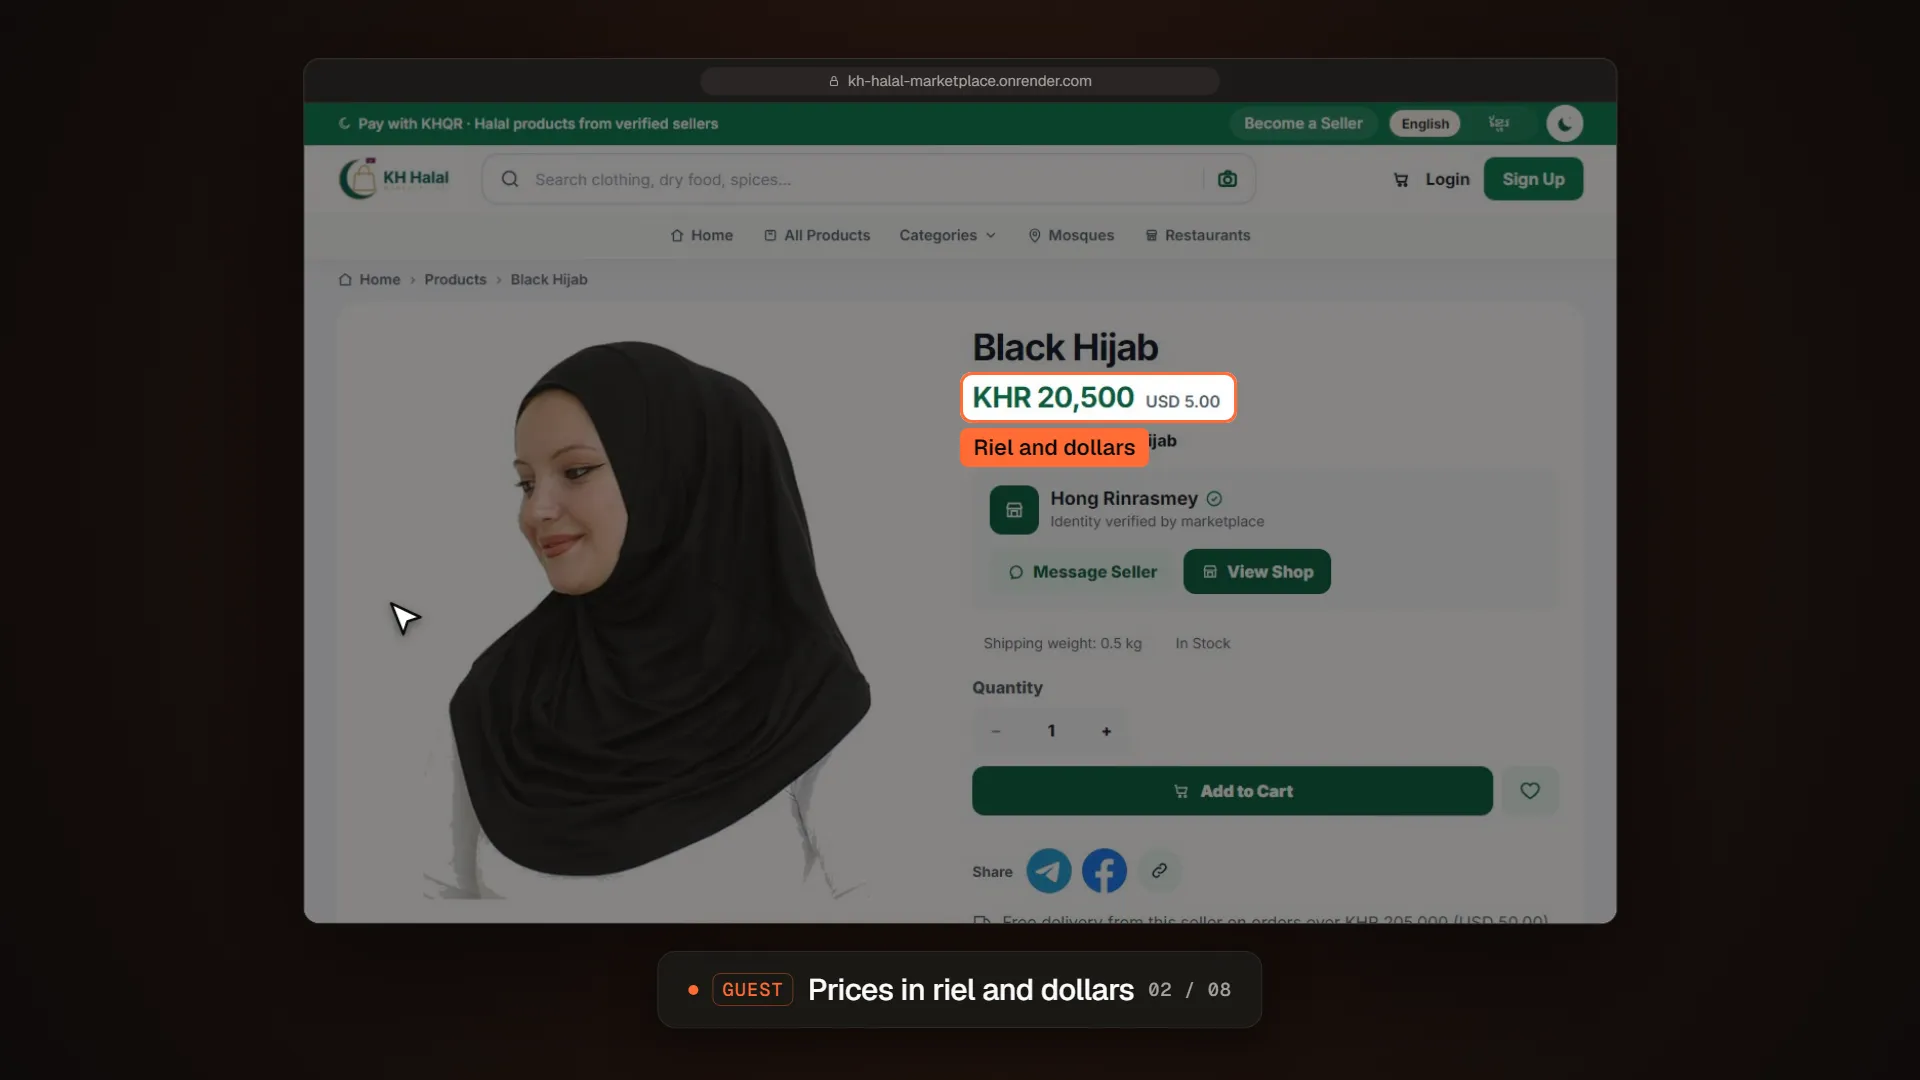
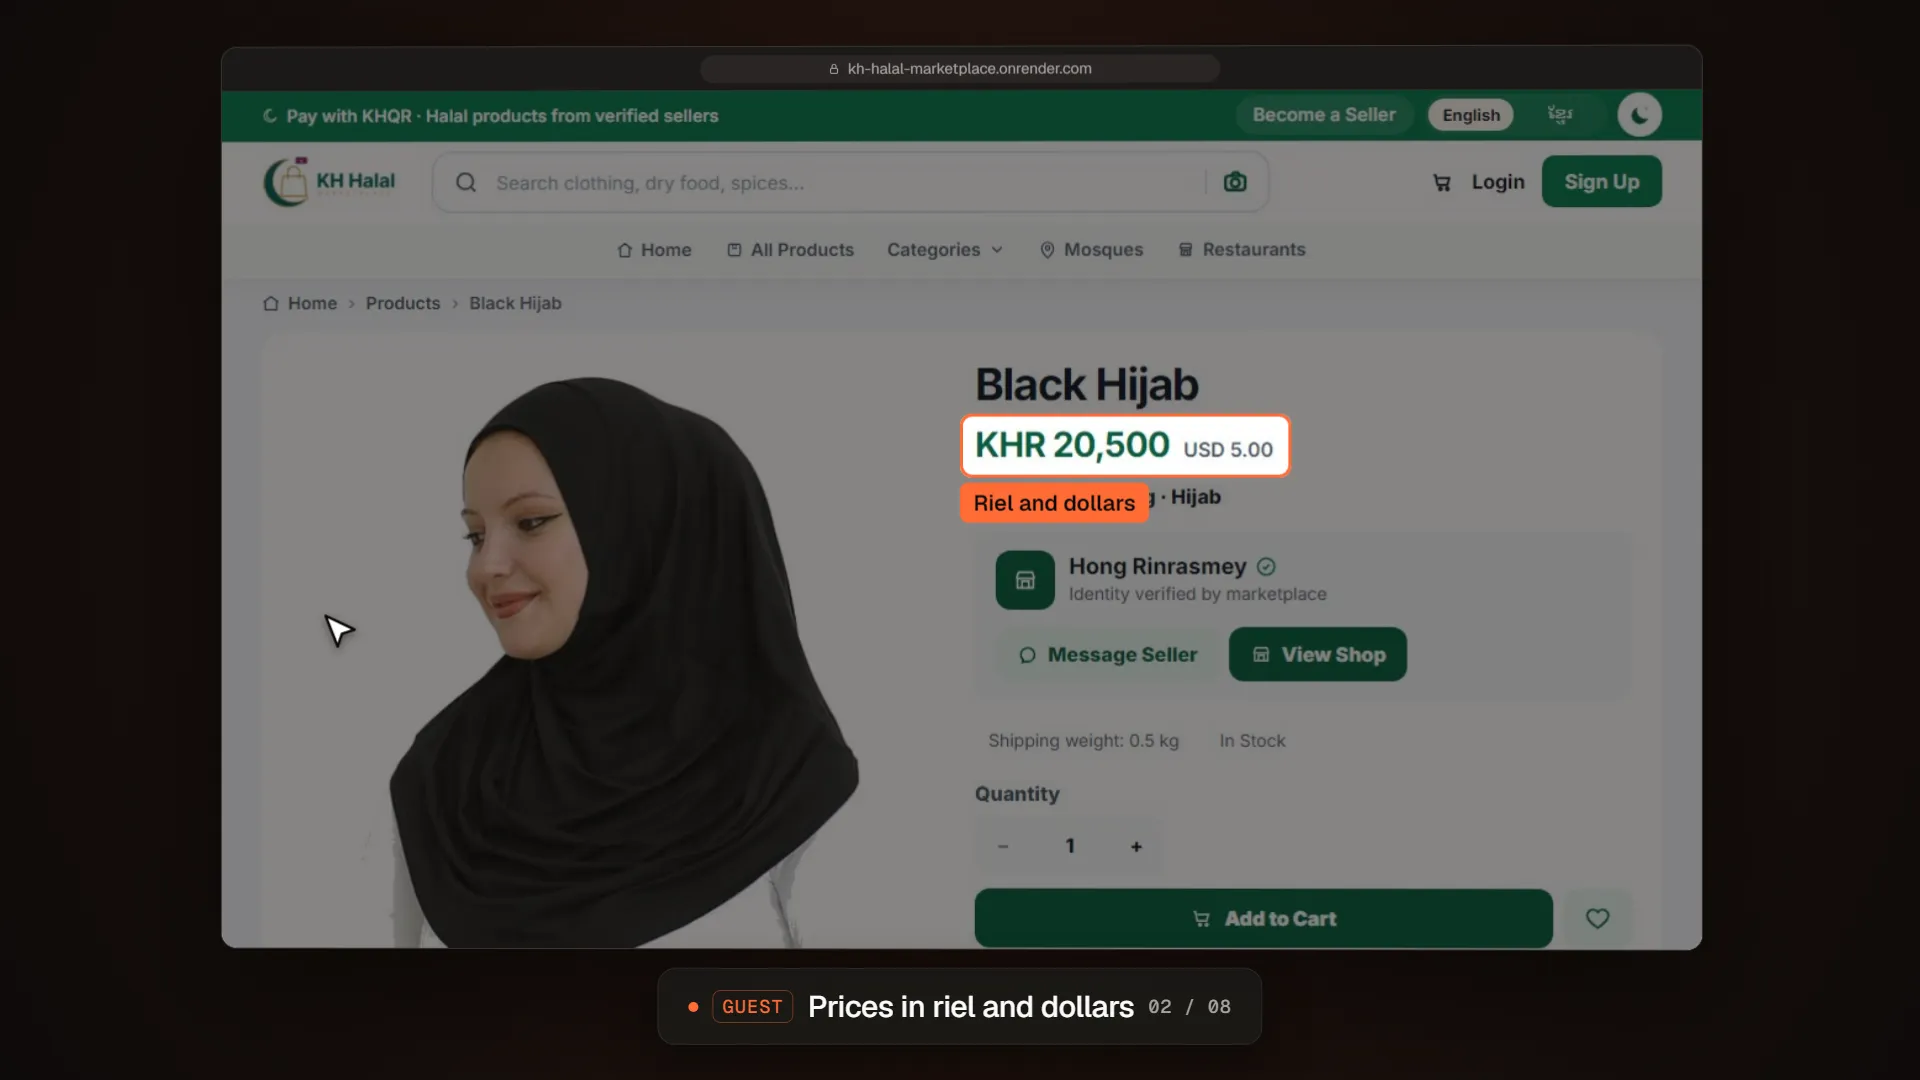
KH Halal video: new take at 1200 wide (bigger text), 4 highlights

Changed region(s): [[0.0938, 0.0611, 0.9062, 0.9472], [0.5, 0.3056, 0.75, 0.6417], [0.3125, 0.2139, 0.6875, 0.2444]]

diff --git a/scripts/record-kh-halal-marketplace.js b/scripts/record-kh-halal-marketplace.js
@@ -13,9 +13,10 @@ const fs = require('fs'), path = require('path'), { spawnSync } = require('child
 const { chromium } = require('playwright');
 
 const SITE = 'https://kh-halal-marketplace.onrender.com';
-// 1120 wide: the narrowest window that keeps the desktop layout (1024 wraps the header), so text is
-// bigger in the video; 650 high fits the stage at 1480 px wide
-const W = 1120, H = 650, GAP = 0.5;               // GAP: seconds of "nothing" between the parts
+// 1200 wide: the narrowest window with the full desktop layout everywhere (below it the seller sidebar
+// collapses into a drawer and the header clips the logo), so text is bigger in the video than at 1280;
+// 696 high fits the stage at 1480 px wide
+const W = 1200, H = 696, GAP = 0.5;               // GAP: seconds of "nothing" between the parts
 const env = k => { const v = process.env[k]; if (!v) { console.error('Missing env var ' + k); process.exit(1); } return v; };
 const PARTS = (process.env.KH_PARTS || 'guest,customer,seller').split(',');   // KH_PARTS=guest: test run, no logins
 const LOGIN = PARTS.length === 1 && PARTS[0] === 'guest' ? {} : { customer: [env('KH_CUSTOMER_EMAIL'), env('KH_CUSTOMER_PASSWORD')], seller: [env('KH_SELLER_EMAIL'), env('KH_SELLER_PASSWORD')] };

diff --git a/index.html b/index.html
@@ -237,7 +237,7 @@
                 Watch video
               </button>
               <!-- What the video shows, for people who can't see it. Update it when the video changes. -->
-              <p class="visually-hidden" id="kh-halal-video-desc">Silent demo video, under 40 seconds. A guest browses halal products, sees a price in riel and dollars, adds a hijab to the cart and switches the site to Khmer. A signed-in customer opens their wishlist. A seller opens the dashboard and the product list, and starts adding a product.</p>
+              <p class="visually-hidden" id="kh-halal-video-desc">Silent demo video, about 40 seconds. A guest browses halal products, sees a price in riel and dollars, adds a hijab to the cart and switches the site to Khmer. A signed-in customer opens their wishlist. A seller opens the dashboard and the product list, and starts adding a product.</p>
             </div>
             </div>
           </div>

diff --git a/CLAUDE.md b/CLAUDE.md
@@ -666,3 +666,10 @@ Honest review of the whole-screens version (7/10) listed 5 problems; all fixed:
 - **Auto-play:** `initMonitor` -> `initDeck` (`js/main.js`): next screen every 3s, looping, only while the deck is half on screen; pauses on hover/focus; never fades to a screen that has not loaded; a screen button stops it for good (WCAG 2.2.2 needs a way to stop moving content that runs longer than 5s); reduced motion: no auto change.
 - Tests (headless Edge, CDP): 0 -> 1 at 3.06s -> 2 at 6.12s -> 0 at 9.05s (loops); button stops it; Full size opens the screen showing (1920 wide); focus back; hover pauses; reduced motion: no change, buttons work; 390: 44px buttons, no sideways scroll; no JS: first screen, buttons hidden; no console errors; check.mjs all PASS; lint 0/0. Committed CSS ~35.4 KB / 36 KB.
 - Committed with a separate index: the other session's uncommitted Contact edits in the same files are NOT in this commit.
+
+### Update 2026-11-13: KH Halal re-recorded with bigger text
+- Owner set `KH_CUSTOMER_*` / `KH_SELLER_*` as Windows **user** env vars (not in any file). The Bash tool does not see them: run the recorder from PowerShell, copying them into `env:` inside the same command (values never printed).
+- Window **1200×696** (not 1120: below 1200 the seller sidebar collapses into an "Open seller tools" drawer and the seller header clips the logo). Stage browser 1480×858 (`device.srcW 1200, sw 1480, sh 858, top 44`, `frameWidth 1200`, `caption.y 968`): text ~20% bigger than the old 1280 take.
+- Take `kh-100337`: guest, customer (role card → wishlist click), seller (dashboard, products, add-product form, name typed, nothing saved). Server writes: login, `cart/validate`, `wishlist/sync` (empty browser list) only.
+- Cuts from scene-change times (product settles 8.5 s, cart 17.1, Khmer 24.45, wishlist 34.0). 4 highlights, typing zoom 1.6 at (650, 440). 40.6 s, 3.9 MB. No blank frames; check.mjs PASS.
+- Owner may now remove the env vars (command in chat) and should change both KH passwords if not done.
